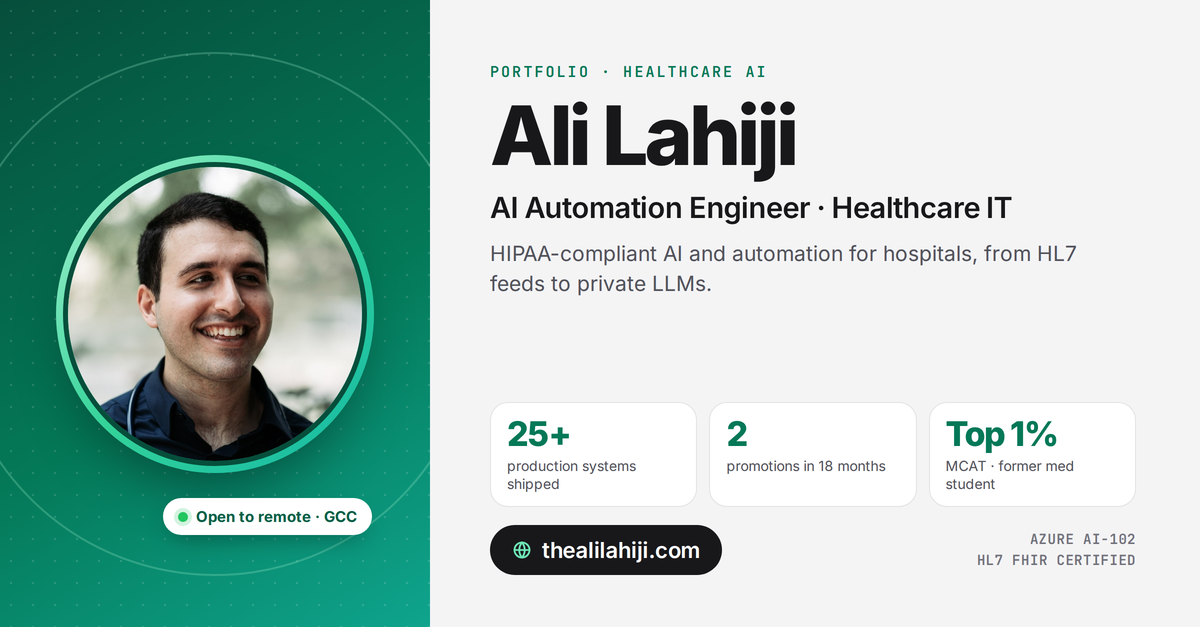
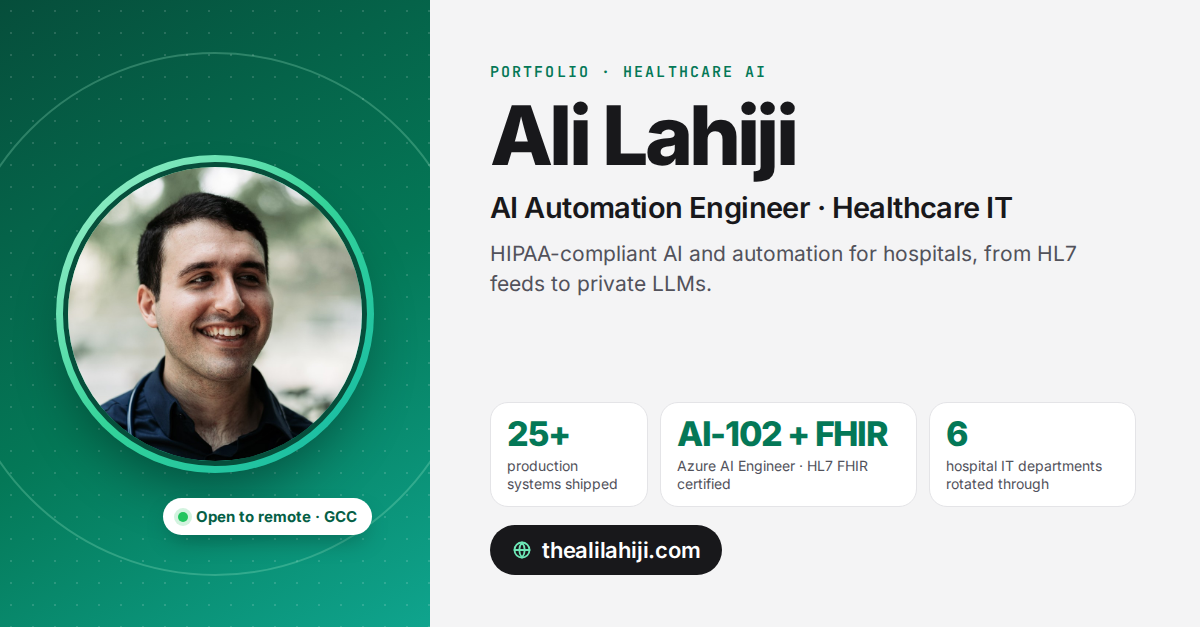
Preview card: show AI-102 + FHIR and IT department rotation; cache-bust og:image
Claude-Session: https://claude.ai/code/session_01Cb3tcJnfiQuvrpj4zCmRr7

diff --git a/projects/compensation-tracker.html b/projects/compensation-tracker.html
@@ -6,7 +6,7 @@
 <title>Compensation Tracker — Ali Lahiji</title>
 <meta name="description" content="Provider compensation app: providers enter location, hours and assignment details, and it calculates every payment and produces the outputs.">
 <link rel="canonical" href="https://thealilahiji.com/projects/compensation-tracker.html">
-<meta property="og:type" content="website"><meta property="og:title" content="Compensation Tracker — Ali Lahiji"><meta property="og:description" content="Provider compensation app: providers enter location, hours and assignment details, and it calculates every payment and produces the outputs."><meta property="og:url" content="https://thealilahiji.com/projects/compensation-tracker.html"><meta property="og:image" content="https://thealilahiji.com/assets/og.png">
+<meta property="og:type" content="website"><meta property="og:title" content="Compensation Tracker — Ali Lahiji"><meta property="og:description" content="Provider compensation app: providers enter location, hours and assignment details, and it calculates every payment and produces the outputs."><meta property="og:url" content="https://thealilahiji.com/projects/compensation-tracker.html"><meta property="og:image" content="https://thealilahiji.com/assets/og.png?v=2">
 <meta name="twitter:card" content="summary_large_image">
 <link rel="icon" href="../assets/favicon.svg" type="image/svg+xml">
 <link rel="preconnect" href="https://fonts.googleapis.com"><link rel="preconnect" href="https://fonts.gstatic.com" crossorigin>

diff --git a/projects/index.html b/projects/index.html
@@ -6,7 +6,7 @@
 <title>Projects — Ali Lahiji</title>
 <meta name="description" content="Case studies of HIPAA-compliant hospital AI and automation systems built by Ali Lahiji: ORBIT, Mission Control, North Star, AI Call Center, private LLM, FHIR sepsis alerts.">
 <link rel="canonical" href="https://thealilahiji.com/projects/">
-<meta property="og:type" content="website"><meta property="og:title" content="Projects — Ali Lahiji"><meta property="og:description" content="Case studies of HIPAA-compliant hospital AI and automation systems built by Ali Lahiji: ORBIT, Mission Control, North Star, AI Call Center, private LLM, FHIR sepsis alerts."><meta property="og:url" content="https://thealilahiji.com/projects/"><meta property="og:image" content="https://thealilahiji.com/assets/og.png">
+<meta property="og:type" content="website"><meta property="og:title" content="Projects — Ali Lahiji"><meta property="og:description" content="Case studies of HIPAA-compliant hospital AI and automation systems built by Ali Lahiji: ORBIT, Mission Control, North Star, AI Call Center, private LLM, FHIR sepsis alerts."><meta property="og:url" content="https://thealilahiji.com/projects/"><meta property="og:image" content="https://thealilahiji.com/assets/og.png?v=2">
 <meta name="twitter:card" content="summary_large_image">
 <link rel="icon" href="../assets/favicon.svg" type="image/svg+xml">
 <link rel="preconnect" href="https://fonts.googleapis.com"><link rel="preconnect" href="https://fonts.gstatic.com" crossorigin>

diff --git a/index.html b/index.html
@@ -6,7 +6,7 @@
 <title>Ali Lahiji — AI Automation Engineer · Healthcare IT</title>
 <meta name="description" content="Portfolio of Ali Lahiji, AI Automation Engineer in healthcare IT: HIPAA-compliant AI, HL7/FHIR integration, private LLMs and automation for hospitals.">
 <link rel="canonical" href="https://thealilahiji.com/">
-<meta property="og:type" content="website"><meta property="og:title" content="Ali Lahiji — AI Automation Engineer · Healthcare IT"><meta property="og:description" content="Portfolio of Ali Lahiji, AI Automation Engineer in healthcare IT: HIPAA-compliant AI, HL7/FHIR integration, private LLMs and automation for hospitals."><meta property="og:url" content="https://thealilahiji.com/"><meta property="og:image" content="https://thealilahiji.com/assets/og.png">
+<meta property="og:type" content="website"><meta property="og:title" content="Ali Lahiji — AI Automation Engineer · Healthcare IT"><meta property="og:description" content="Portfolio of Ali Lahiji, AI Automation Engineer in healthcare IT: HIPAA-compliant AI, HL7/FHIR integration, private LLMs and automation for hospitals."><meta property="og:url" content="https://thealilahiji.com/"><meta property="og:image" content="https://thealilahiji.com/assets/og.png?v=2">
 <meta name="twitter:card" content="summary_large_image">
 <link rel="icon" href="assets/favicon.svg" type="image/svg+xml">
 <link rel="preconnect" href="https://fonts.googleapis.com"><link rel="preconnect" href="https://fonts.gstatic.com" crossorigin>

diff --git a/publications.html b/publications.html
@@ -6,7 +6,7 @@
 <title>Publications — Ali Lahiji</title>
 <meta name="description" content="Publications and research contributions by Ali Lahiji, including AI-derived body composition metrics (GOLD Journal, 2025) and the VRC 705 Zika vaccine trial.">
 <link rel="canonical" href="https://thealilahiji.com/publications.html">
-<meta property="og:type" content="website"><meta property="og:title" content="Publications — Ali Lahiji"><meta property="og:description" content="Publications and research contributions by Ali Lahiji, including AI-derived body composition metrics (GOLD Journal, 2025) and the VRC 705 Zika vaccine trial."><meta property="og:url" content="https://thealilahiji.com/publications.html"><meta property="og:image" content="https://thealilahiji.com/assets/og.png">
+<meta property="og:type" content="website"><meta property="og:title" content="Publications — Ali Lahiji"><meta property="og:description" content="Publications and research contributions by Ali Lahiji, including AI-derived body composition metrics (GOLD Journal, 2025) and the VRC 705 Zika vaccine trial."><meta property="og:url" content="https://thealilahiji.com/publications.html"><meta property="og:image" content="https://thealilahiji.com/assets/og.png?v=2">
 <meta name="twitter:card" content="summary_large_image">
 <link rel="icon" href="assets/favicon.svg" type="image/svg+xml">
 <link rel="preconnect" href="https://fonts.googleapis.com"><link rel="preconnect" href="https://fonts.gstatic.com" crossorigin>

diff --git a/certifications.html b/certifications.html
@@ -6,7 +6,7 @@
 <title>Certifications — Ali Lahiji</title>
 <meta name="description" content="Azure AI Engineer Associate (AI-102), HL7 FHIR Fundamentals, CompTIA A+, Harvard CS50x, Google Cloud, plus in-progress ML engineering certifications.">
 <link rel="canonical" href="https://thealilahiji.com/certifications.html">
-<meta property="og:type" content="website"><meta property="og:title" content="Certifications — Ali Lahiji"><meta property="og:description" content="Azure AI Engineer Associate (AI-102), HL7 FHIR Fundamentals, CompTIA A+, Harvard CS50x, Google Cloud, plus in-progress ML engineering certifications."><meta property="og:url" content="https://thealilahiji.com/certifications.html"><meta property="og:image" content="https://thealilahiji.com/assets/og.png">
+<meta property="og:type" content="website"><meta property="og:title" content="Certifications — Ali Lahiji"><meta property="og:description" content="Azure AI Engineer Associate (AI-102), HL7 FHIR Fundamentals, CompTIA A+, Harvard CS50x, Google Cloud, plus in-progress ML engineering certifications."><meta property="og:url" content="https://thealilahiji.com/certifications.html"><meta property="og:image" content="https://thealilahiji.com/assets/og.png?v=2">
 <meta name="twitter:card" content="summary_large_image">
 <link rel="icon" href="assets/favicon.svg" type="image/svg+xml">
 <link rel="preconnect" href="https://fonts.googleapis.com"><link rel="preconnect" href="https://fonts.gstatic.com" crossorigin>

diff --git a/projects/medisoft-parser.html b/projects/medisoft-parser.html
@@ -6,7 +6,7 @@
 <title>Medisoft Rules Parser — Ali Lahiji</title>
 <meta name="description" content="Data-transformation pipeline (dictionaries → pandas → export) that enabled a billing-system transition.">
 <link rel="canonical" href="https://thealilahiji.com/projects/medisoft-parser.html">
-<meta property="og:type" content="website"><meta property="og:title" content="Medisoft Rules Parser — Ali Lahiji"><meta property="og:description" content="Data-transformation pipeline (dictionaries → pandas → export) that enabled a billing-system transition."><meta property="og:url" content="https://thealilahiji.com/projects/medisoft-parser.html"><meta property="og:image" content="https://thealilahiji.com/assets/og.png">
+<meta property="og:type" content="website"><meta property="og:title" content="Medisoft Rules Parser — Ali Lahiji"><meta property="og:description" content="Data-transformation pipeline (dictionaries → pandas → export) that enabled a billing-system transition."><meta property="og:url" content="https://thealilahiji.com/projects/medisoft-parser.html"><meta property="og:image" content="https://thealilahiji.com/assets/og.png?v=2">
 <meta name="twitter:card" content="summary_large_image">
 <link rel="icon" href="../assets/favicon.svg" type="image/svg+xml">
 <link rel="preconnect" href="https://fonts.googleapis.com"><link rel="preconnect" href="https://fonts.gstatic.com" crossorigin>

diff --git a/projects/ai-call-center.html b/projects/ai-call-center.html
@@ -6,7 +6,7 @@
 <title>AI Call Center — case study — Ali Lahiji</title>
 <meta name="description" content="Voice agent pipeline: speech-to-text → retrieval-grounded answers → text-to-speech → routing.">
 <link rel="canonical" href="https://thealilahiji.com/projects/ai-call-center.html">
-<meta property="og:type" content="website"><meta property="og:title" content="AI Call Center — case study — Ali Lahiji"><meta property="og:description" content="Voice agent pipeline: speech-to-text → retrieval-grounded answers → text-to-speech → routing."><meta property="og:url" content="https://thealilahiji.com/projects/ai-call-center.html"><meta property="og:image" content="https://thealilahiji.com/assets/og.png">
+<meta property="og:type" content="website"><meta property="og:title" content="AI Call Center — case study — Ali Lahiji"><meta property="og:description" content="Voice agent pipeline: speech-to-text → retrieval-grounded answers → text-to-speech → routing."><meta property="og:url" content="https://thealilahiji.com/projects/ai-call-center.html"><meta property="og:image" content="https://thealilahiji.com/assets/og.png?v=2">
 <meta name="twitter:card" content="summary_large_image">
 <link rel="icon" href="../assets/favicon.svg" type="image/svg+xml">
 <link rel="preconnect" href="https://fonts.googleapis.com"><link rel="preconnect" href="https://fonts.gstatic.com" crossorigin>

diff --git a/projects/365-manager.html b/projects/365-manager.html
@@ -6,7 +6,7 @@
 <title>365 Manager — Ali Lahiji</title>
 <meta name="description" content="Microsoft 365 licence and inventory manager; went live December 2025 and presented to the server and help-desk teams.">
 <link rel="canonical" href="https://thealilahiji.com/projects/365-manager.html">
-<meta property="og:type" content="website"><meta property="og:title" content="365 Manager — Ali Lahiji"><meta property="og:description" content="Microsoft 365 licence and inventory manager; went live December 2025 and presented to the server and help-desk teams."><meta property="og:url" content="https://thealilahiji.com/projects/365-manager.html"><meta property="og:image" content="https://thealilahiji.com/assets/og.png">
+<meta property="og:type" content="website"><meta property="og:title" content="365 Manager — Ali Lahiji"><meta property="og:description" content="Microsoft 365 licence and inventory manager; went live December 2025 and presented to the server and help-desk teams."><meta property="og:url" content="https://thealilahiji.com/projects/365-manager.html"><meta property="og:image" content="https://thealilahiji.com/assets/og.png?v=2">
 <meta name="twitter:card" content="summary_large_image">
 <link rel="icon" href="../assets/favicon.svg" type="image/svg+xml">
 <link rel="preconnect" href="https://fonts.googleapis.com"><link rel="preconnect" href="https://fonts.gstatic.com" crossorigin>

diff --git a/projects/fhir-sepsis-alerts.html b/projects/fhir-sepsis-alerts.html
@@ -6,7 +6,7 @@
 <title>FHIR Sepsis Alerts — case study — Ali Lahiji</title>
 <meta name="description" content="FHIR server application with capability-statement generation, built for sepsis alerting.">
 <link rel="canonical" href="https://thealilahiji.com/projects/fhir-sepsis-alerts.html">
-<meta property="og:type" content="website"><meta property="og:title" content="FHIR Sepsis Alerts — case study — Ali Lahiji"><meta property="og:description" content="FHIR server application with capability-statement generation, built for sepsis alerting."><meta property="og:url" content="https://thealilahiji.com/projects/fhir-sepsis-alerts.html"><meta property="og:image" content="https://thealilahiji.com/assets/og.png">
+<meta property="og:type" content="website"><meta property="og:title" content="FHIR Sepsis Alerts — case study — Ali Lahiji"><meta property="og:description" content="FHIR server application with capability-statement generation, built for sepsis alerting."><meta property="og:url" content="https://thealilahiji.com/projects/fhir-sepsis-alerts.html"><meta property="og:image" content="https://thealilahiji.com/assets/og.png?v=2">
 <meta name="twitter:card" content="summary_large_image">
 <link rel="icon" href="../assets/favicon.svg" type="image/svg+xml">
 <link rel="preconnect" href="https://fonts.googleapis.com"><link rel="preconnect" href="https://fonts.gstatic.com" crossorigin>

diff --git a/projects/luigi-ai.html b/projects/luigi-ai.html
@@ -6,7 +6,7 @@
 <title>Luigi AI — Ali Lahiji</title>
 <meta name="description" content="Registered Texas LLC (Feb 2026): AI automation and custom software consulting for clinics and small teams. luigiai.dev">
 <link rel="canonical" href="https://thealilahiji.com/projects/luigi-ai.html">
-<meta property="og:type" content="website"><meta property="og:title" content="Luigi AI — Ali Lahiji"><meta property="og:description" content="Registered Texas LLC (Feb 2026): AI automation and custom software consulting for clinics and small teams. luigiai.dev"><meta property="og:url" content="https://thealilahiji.com/projects/luigi-ai.html"><meta property="og:image" content="https://thealilahiji.com/assets/og.png">
+<meta property="og:type" content="website"><meta property="og:title" content="Luigi AI — Ali Lahiji"><meta property="og:description" content="Registered Texas LLC (Feb 2026): AI automation and custom software consulting for clinics and small teams. luigiai.dev"><meta property="og:url" content="https://thealilahiji.com/projects/luigi-ai.html"><meta property="og:image" content="https://thealilahiji.com/assets/og.png?v=2">
 <meta name="twitter:card" content="summary_large_image">
 <link rel="icon" href="../assets/favicon.svg" type="image/svg+xml">
 <link rel="preconnect" href="https://fonts.googleapis.com"><link rel="preconnect" href="https://fonts.gstatic.com" crossorigin>

diff --git a/projects/private-llm.html b/projects/private-llm.html
@@ -6,7 +6,7 @@
 <title>Private LLM (air-gapped) — case study — Ali Lahiji</title>
 <meta name="description" content="On-network large language model with zero external egress for PHI-adjacent work.">
 <link rel="canonical" href="https://thealilahiji.com/projects/private-llm.html">
-<meta property="og:type" content="website"><meta property="og:title" content="Private LLM (air-gapped) — case study — Ali Lahiji"><meta property="og:description" content="On-network large language model with zero external egress for PHI-adjacent work."><meta property="og:url" content="https://thealilahiji.com/projects/private-llm.html"><meta property="og:image" content="https://thealilahiji.com/assets/og.png">
+<meta property="og:type" content="website"><meta property="og:title" content="Private LLM (air-gapped) — case study — Ali Lahiji"><meta property="og:description" content="On-network large language model with zero external egress for PHI-adjacent work."><meta property="og:url" content="https://thealilahiji.com/projects/private-llm.html"><meta property="og:image" content="https://thealilahiji.com/assets/og.png?v=2">
 <meta name="twitter:card" content="summary_large_image">
 <link rel="icon" href="../assets/favicon.svg" type="image/svg+xml">
 <link rel="preconnect" href="https://fonts.googleapis.com"><link rel="preconnect" href="https://fonts.gstatic.com" crossorigin>

diff --git a/contact.html b/contact.html
@@ -6,7 +6,7 @@
 <title>Contact — Ali Lahiji</title>
 <meta name="description" content="Contact Ali Lahiji, AI Automation Engineer in healthcare IT, for remote US or GCC roles and healthcare automation projects.">
 <link rel="canonical" href="https://thealilahiji.com/contact.html">
-<meta property="og:type" content="website"><meta property="og:title" content="Contact — Ali Lahiji"><meta property="og:description" content="Contact Ali Lahiji, AI Automation Engineer in healthcare IT, for remote US or GCC roles and healthcare automation projects."><meta property="og:url" content="https://thealilahiji.com/contact.html"><meta property="og:image" content="https://thealilahiji.com/assets/og.png">
+<meta property="og:type" content="website"><meta property="og:title" content="Contact — Ali Lahiji"><meta property="og:description" content="Contact Ali Lahiji, AI Automation Engineer in healthcare IT, for remote US or GCC roles and healthcare automation projects."><meta property="og:url" content="https://thealilahiji.com/contact.html"><meta property="og:image" content="https://thealilahiji.com/assets/og.png?v=2">
 <meta name="twitter:card" content="summary_large_image">
 <link rel="icon" href="assets/favicon.svg" type="image/svg+xml">
 <link rel="preconnect" href="https://fonts.googleapis.com"><link rel="preconnect" href="https://fonts.gstatic.com" crossorigin>
